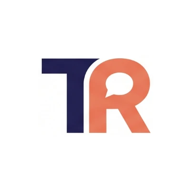
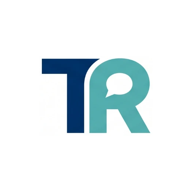
v0.25 새 로고와 앱 색 통일 (남색, 청록)

Changed region(s): [[0.1875, 0.2812, 0.7812, 0.7188]]

diff --git a/style.css b/style.css
@@ -1,18 +1,27 @@
-/* 색: 라이트가 기본. 다크는 ① 휴대폰이 다크 모드이고 앱에서 '라이트'를 고르지 않았을 때, ② 앱에서 '다크'를 골랐을 때 */
+/* 색: 로고의 두 색 — 남색 #003876, 청록 #50B3B2.
+   --accent(주 색): 주요 버튼·링크·지금 탭·선택 표시. 라이트는 남색, 다크는 청록(어두운 배경에서 남색은 안 보임).
+   --teal(보조 색): 핵심 단어·정답 단어·막대·힌트·발음 표기. 글자로 쓸 때는 읽기 쉬운 --teal-ink.
+   라이트가 기본. 다크는 ① 휴대폰이 다크 모드이고 앱에서 '라이트'를 고르지 않았을 때, ② 앱에서 '다크'를 골랐을 때 */
 :root {
-  --bg: #f5f6f8; --card: #ffffff; --text: #1d2430; --muted: #687385; --line: #e3e6eb;
-  --accent: #2563c9; --accent-soft: #e8f0fc; --radius: 14px; --nav-bg: #eaf0f9;
+  --bg: #f3f6f8; --card: #ffffff; --text: #0f1f33; --muted: #5b6b7c; --line: #dbe4ea;
+  --accent: #003876; --accent-soft: #e3ecf5; --on-accent: #ffffff;
+  --teal: #50b3b2; --teal-ink: #1c7473; --teal-soft: #e2f3f2;
+  --nav-bg: #e8f1f3; --danger: #c43d3d; --radius: 14px;
   color-scheme: light;
 }
 @media (prefers-color-scheme: dark) {
   :root:not([data-theme="light"]) {
-    --bg: #12151a; --card: #1b2028; --text: #e6e9ee; --muted: #9aa4b2; --line: #2a313c;
-    --accent: #6e9ef0; --accent-soft: #1f2b40; --nav-bg: #1a2230; color-scheme: dark;
+    --bg: #0b141d; --card: #13202b; --text: #e5edf2; --muted: #93a7b6; --line: #233441;
+    --accent: #50b3b2; --accent-soft: #133236; --on-accent: #04223f;
+    --teal: #50b3b2; --teal-ink: #6dcac8; --teal-soft: #12302f;
+    --nav-bg: #0f1c26; --danger: #ef7b7b; color-scheme: dark;
   }
 }
 :root[data-theme="dark"] {
-  --bg: #12151a; --card: #1b2028; --text: #e6e9ee; --muted: #9aa4b2; --line: #2a313c;
-  --accent: #6e9ef0; --accent-soft: #1f2b40; --nav-bg: #1a2230; color-scheme: dark;
+  --bg: #0b141d; --card: #13202b; --text: #e5edf2; --muted: #93a7b6; --line: #233441;
+  --accent: #50b3b2; --accent-soft: #133236; --on-accent: #04223f;
+  --teal: #50b3b2; --teal-ink: #6dcac8; --teal-soft: #12302f;
+  --nav-bg: #0f1c26; --danger: #ef7b7b; color-scheme: dark;
 }
 * { box-sizing: border-box; }
 body {
@@ -78,12 +87,12 @@ h2 { font-size: 15px; color: var(--muted); font-weight: 600; margin: 0 0 10px; }
 .card h3 { margin: 2px 0 8px; font-size: 22px; }
 .card .goal { color: var(--muted); margin: 0 0 16px; }
 .chips { display: flex; flex-wrap: wrap; gap: 6px; margin-bottom: 20px; }
-.chip { background: var(--accent-soft); color: var(--accent); border-radius: 999px; padding: 4px 10px; font-size: 14px; }
+.chip { background: var(--teal-soft); color: var(--teal-ink); border-radius: 999px; padding: 4px 10px; font-size: 14px; }
 
 button.primary, button.secondary {
   width: 100%; border: 0; border-radius: 12px; padding: 14px; font: inherit; font-weight: 700; cursor: pointer;
 }
-button.primary { background: var(--accent); color: #fff; }
+button.primary { background: var(--accent); color: var(--on-accent); }
 button.primary:disabled { opacity: 0.45; cursor: default; }
 button.secondary { background: var(--accent-soft); color: var(--accent); margin-top: 8px; }
 .link { background: none; border: 0; color: var(--accent); font: inherit; padding: 0; margin-bottom: 14px; cursor: pointer; }
@@ -204,17 +213,17 @@ textarea {
 .level.on { background: var(--accent-soft); color: var(--accent); border-color: var(--accent); font-weight: 700; }
 .level-desc { color: var(--muted); font-size: 14px; margin: -2px 0 10px; }
 .drill-card { min-height: 220px; }
-.situation-label { color: var(--accent); font-size: 13px; font-weight: 700; margin: 0 0 2px; }
+.situation-label { color: var(--teal-ink); font-size: 13px; font-weight: 700; margin: 0 0 2px; }
 .situation { color: var(--text); font-size: 19px; font-weight: 700; line-height: 1.45; margin: 0 0 14px; }
 .sentence-label { color: var(--muted); font-size: 13px; font-weight: 700; margin: 0 0 2px; }
 .sentence { font-size: 21px; line-height: 1.8; margin: 0; }
 .blank { display: inline-block; border-bottom: 2px solid var(--muted); margin: 0 3px; height: 1.2em; vertical-align: -0.15em; }
-.filled { color: var(--accent); font-weight: 800; font-size: 1.08em; border-bottom: 2px solid var(--accent); }
+.filled { color: var(--teal-ink); font-weight: 800; font-size: 1.08em; border-bottom: 2px solid var(--teal); }
 .drill-say { color: var(--muted); font-size: 14px; margin: 16px 0 0; }
-.drill-hint { color: var(--accent); font-size: 16px; font-weight: 700; margin: 8px 0 0; letter-spacing: 0.05em; }
+.drill-hint { color: var(--teal-ink); font-size: 16px; font-weight: 700; margin: 8px 0 0; letter-spacing: 0.05em; }
 .drill-pron { color: var(--muted); font-size: 14px; margin: 10px 0 0; }
 .drill-actions { display: flex; flex-direction: column; gap: 8px; margin-top: 12px; }
-.recording { color: #d64545; font-weight: 700; margin: 16px 0 0; }
+.recording { color: var(--danger); font-weight: 700; margin: 16px 0 0; }
 .coach { border-radius: 12px; padding: 12px 14px; margin: 0 0 14px; background: var(--accent-soft); }
 .coach.retry { background: transparent; border: 1px solid var(--line); }
 .coach-title { font-weight: 800; font-size: 17px; margin: 0 0 4px; color: var(--accent); }
@@ -222,7 +231,7 @@ textarea {
 .coach-msg { margin: 0 0 6px; }
 .coach-heard { color: var(--muted); font-size: 14px; margin: 0 0 6px; }
 .coach-word { margin: 8px 0 0; font-size: 15px; }
-.coach-word .resp { color: var(--accent); font-weight: 800; letter-spacing: 0.03em; }
+.coach-word .resp { color: var(--teal-ink); font-weight: 800; letter-spacing: 0.03em; }
 .coach-word .tip { display: block; color: var(--muted); font-size: 14px; }
 .drill-actions .row { display: flex; gap: 8px; }
 .drill-actions button { margin-top: 0; }
@@ -244,8 +253,8 @@ textarea {
 .trow.static { cursor: default; }
 .kw { margin-bottom: 8px; }
 .kw-label { display: flex; justify-content: space-between; font-size: 14px; }
-.bar { height: 8px; border-radius: 4px; background: var(--accent-soft); overflow: hidden; margin-top: 3px; }
-.bar i { display: block; height: 100%; background: var(--accent); }
+.bar { height: 8px; border-radius: 4px; background: var(--teal-soft); overflow: hidden; margin-top: 3px; }
+.bar i { display: block; height: 100%; background: var(--teal); }
 .t-head { display: flex; align-items: center; gap: 12px; }
 .review-actions button { margin-top: 0; }
 .hint { color: var(--muted); font-size: 13px; text-align: center; margin: 10px 0 0; }

diff --git a/js/config.js b/js/config.js
@@ -1,6 +1,6 @@
 // 바뀌는 값은 이 파일 한 곳에만 둔다 (README 규칙 7).
 // 서버 주소는 공개돼도 괜찮다. API 키는 절대 여기에 넣지 않는다.
-export const APP_VERSION = 'v0.24';
+export const APP_VERSION = 'v0.25';
 export const SERVER_URL = 'https://script.google.com/macros/s/AKfycbzCJi72ilZwyiHruwlSR2OGWQ_toNa-CvjHej1k6S8l6S-Nk_9BczuJ1p2KDQ69N1cI/exec';
 // Gemini Live 연결 주소 (임시 토큰 전용, v1beta). 키는 필요 없고 서버가 준 토큰을 붙여 쓴다.
 export const LIVE_WS_URL = 'wss://generativelanguage.googleapis.com/ws/google.ai.generativelanguage.v1beta.GenerativeService.BidiGenerateContentConstrained';

diff --git a/index.html b/index.html
@@ -18,7 +18,7 @@
 <body>
   <div class="wrap">
     <header>
-      <h1 class="brand"><img src="img/logo.jpg" alt="Tutoreal" width="900" height="237"></h1>
+      <h1 class="brand"><img src="img/logo.jpg" alt="Tutoreal" width="900" height="236"></h1>
       <button class="theme-btn" id="theme-btn" type="button"></button>
     </header>
 

diff --git a/CHANGELOG.md b/CHANGELOG.md
@@ -231,3 +231,10 @@
 - 홈 화면 아이콘: 로고의 TR을 흰 정사각형에 옮긴 아이콘 (img/icon-180.png 아이폰, icon-192/512.png 안드로이드). 홈 화면 이름 'Tutoreal'. manifest.webmanifest 추가
 - 화면 모드 전환: 로고 오른쪽 버튼 — 자동(휴대폰 설정) → 라이트 → 다크. 이 휴대폰에 기억하고, 페이지를 그리기 전에 먼저 적용해 색이 번쩍이지 않게 함
 - 앱만 바뀜 (서버 v0.22 그대로)
+
+## v0.25 (2026-10-12)
+- 새 로고 (남색 #003876 + 청록 #50B3B2)로 교체하고, 홈 화면 아이콘(TR)도 새 로고로 다시 만듦. 이번 로고도 체크무늬가 그려져 있어 흰 알약 부분만 잘라 씀
+- 앱 색을 로고 두 색으로 통일: 주 색(주요 버튼·링크·지금 탭·선택)은 라이트 남색 / 다크 청록, 보조 색(핵심 단어 칩·정답 단어·막대·힌트·발음 표기·'상황')은 청록. 청록 글자는 읽기 쉬운 진한 청록(라이트)·밝은 청록(다크)
+- 다크 모드의 청록 버튼에는 진한 남색 글자 (흰 글자는 대비가 낮음). 배경·글자·테두리도 남색·청록 기운의 중성색으로
+- 안드로이드 홈 화면 상단 색(theme_color)을 남색으로
+- 앱만 바뀜
